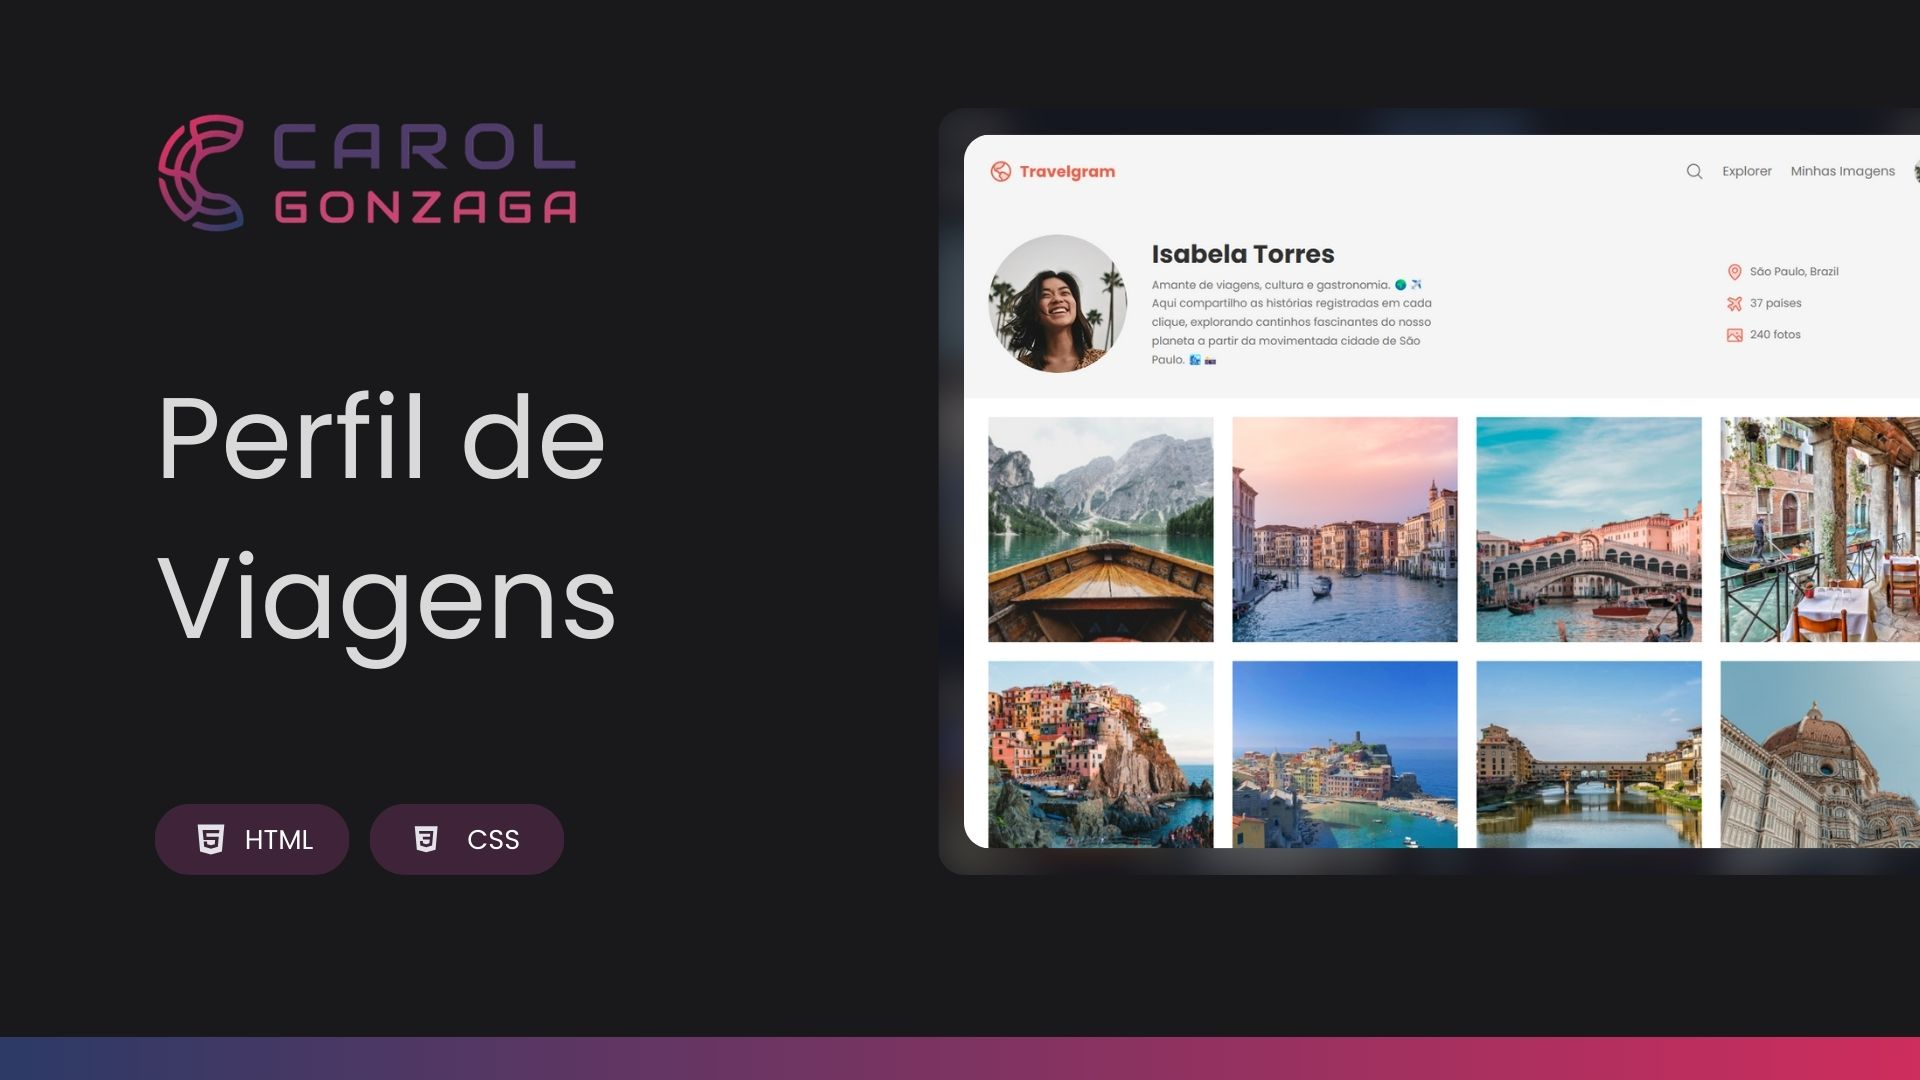
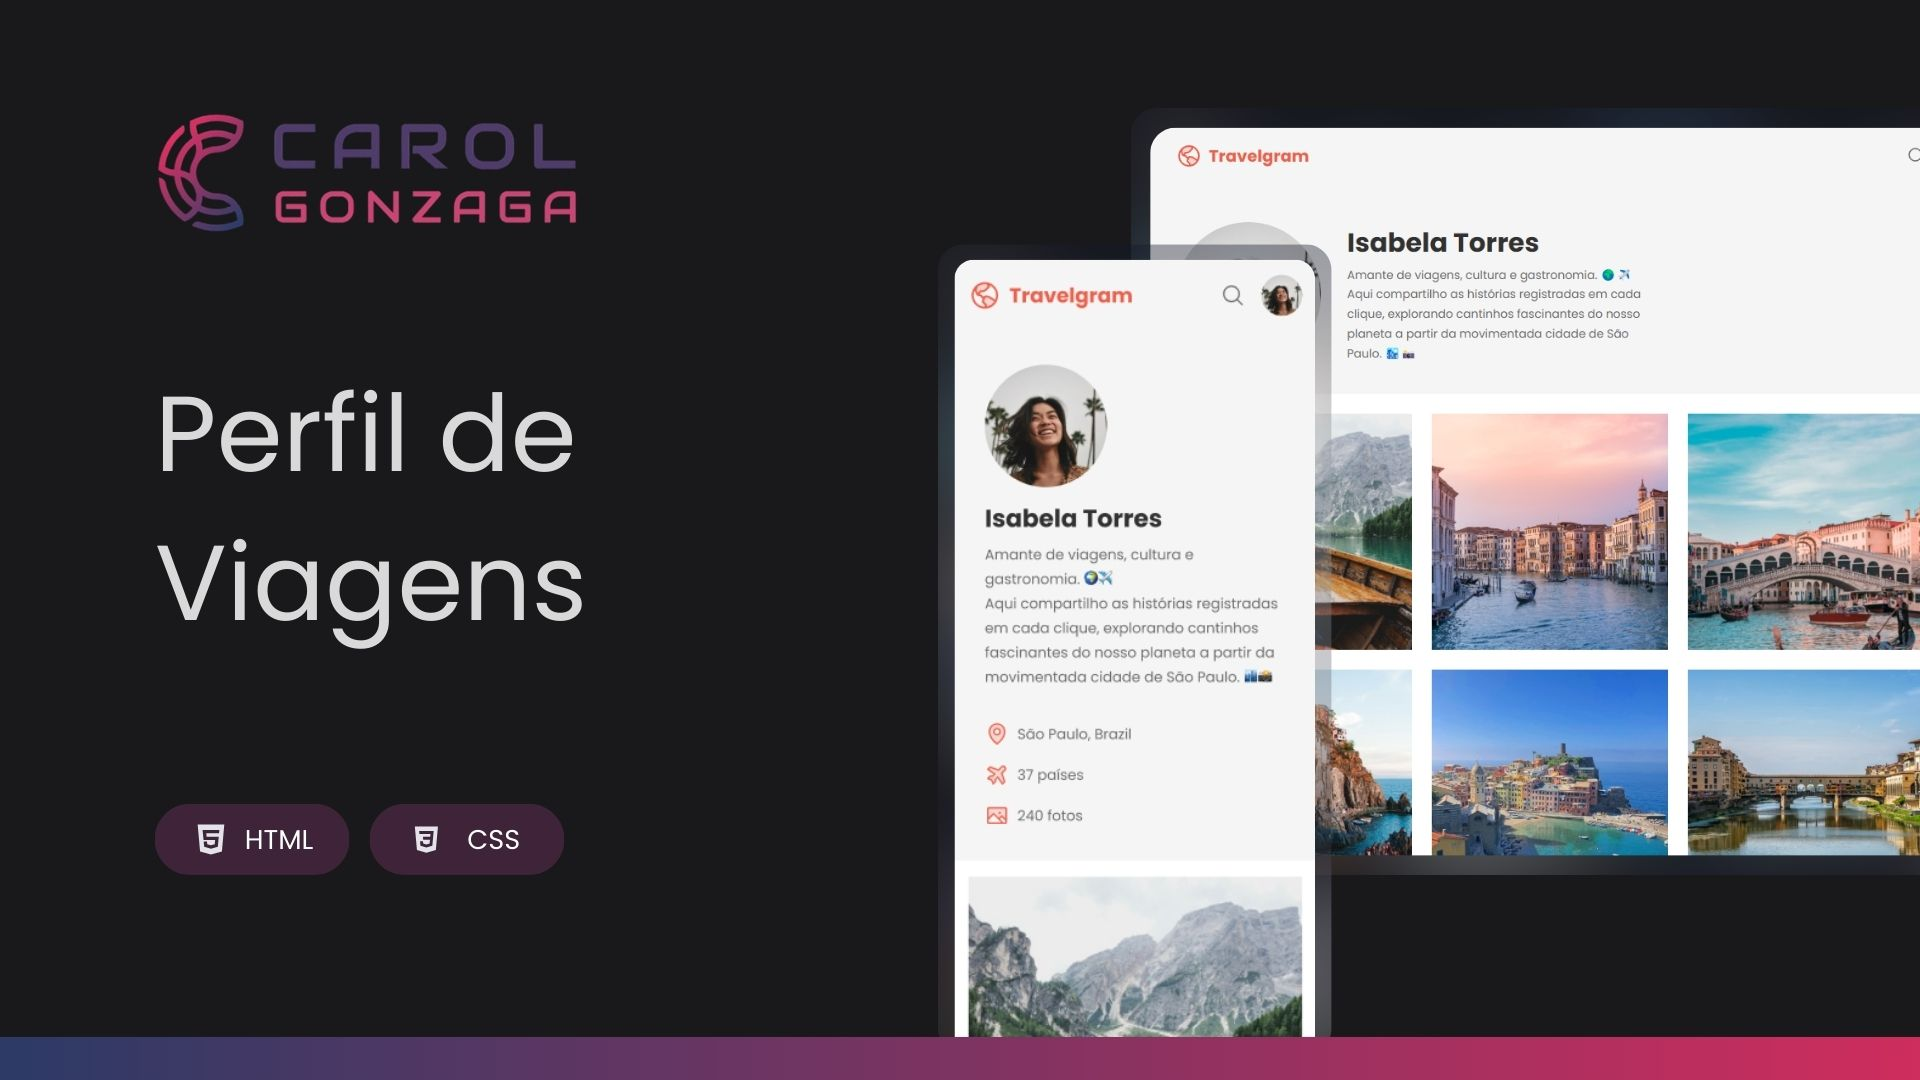
responsividade add

diff --git a/assets/styles/header.css b/assets/styles/header.css
@@ -46,3 +46,43 @@ header .container {
     align-items: center;
     gap: 8px;
 }
+
+@media (width <= 500px) {
+       
+    header {
+        padding-block: 0;
+    }
+
+    header .container {
+        flex-direction: column;
+        justify-content: space-between;
+        padding: 32px;
+        gap: 32px;
+    }
+
+    #profile {
+        flex-direction: column;
+        justify-content: start;
+        text-align: left;
+        gap: 16px;
+    }
+
+    #profile img {
+        width: 120px;
+        height: 120px;
+        margin-right: auto;
+    }
+
+    #profile>div {
+        max-width: 100%;
+        
+        & h1 {
+            margin-bottom: 8px;
+            font-size: 24px;
+        }
+
+        & p {
+            font-size: 13px;
+        }
+    }
+}

diff --git a/assets/styles/footer.css b/assets/styles/footer.css
@@ -5,6 +5,32 @@ footer {
     font: var(--text-p-sm);
 }
 
-footer span:nth-child(1) {
+footer span {
     margin-right: auto;
+}
+
+@media (width <= 500px) {
+    footer {
+        padding: 16px 32px;
+        display: grid;
+        grid-template-columns: 1fr 1fr;
+        grid-template-rows: 2fr 1fr;
+        gap: 0;
+        font-size: 13px;
+
+        & span {
+            grid-column: 1/3;
+            margin-inline: auto;
+        }
+
+        & >:nth-child(2) {
+            grid-column: 1/2;
+            text-align: center;
+        }
+
+        & >:nth-child(3) {
+            grid-column: 2/3;
+            text-align: center;
+        }
+    }
 }

diff --git a/index.html b/index.html
@@ -27,8 +27,8 @@
                         <img src="assets/icons/MagnifyingGlass.svg" alt="">
                     </a>
                 </li>
-                <li><a href="#">Explorer</a></li>
-                <li><a href="#">Minhas Imagens</a></li>
+                <li><a href="#" class="desktop-only">Explorer</a></li>
+                <li><a href="#" class="desktop-only">Minhas Imagens</a></li>
                 <li>
                     <a href="#">
                         <img src="assets/images/Profile pic.png" alt="Imagem de Isabela Torres">

diff --git a/assets/styles/nav.css b/assets/styles/nav.css
@@ -21,3 +21,21 @@ nav ul li:last-child img {
     height: 40px;
 }
 
+@media (width <= 500px) {
+    #primary-menu {
+        justify-content: flex-end;
+        margin: 0;
+        padding: 0;
+        gap: 4px;
+    }
+
+    nav {
+        padding: 16px;
+    }
+
+    nav ul {
+        gap: 16px;
+        padding-block: 0;
+    }
+}
+

diff --git a/assets/styles/main.css b/assets/styles/main.css
@@ -12,3 +12,16 @@ main img {
     height: 286px;
     object-fit: cover;
 }
+
+@media (width <= 500px) {
+    main {
+        gap: 16px;
+        padding: 16px;
+    }
+
+    main img {
+        width: 100%;
+        height: 100%;
+        object-fit: cover;
+    }
+}

diff --git a/assets/styles/global.css b/assets/styles/global.css
@@ -46,3 +46,14 @@ a:hover {
 .bg-surface-color {
     background-color: var(--surface-color);
 }
+
+@media (width <= 500px) {
+    .desktop-only {
+        display: none;
+    }
+
+    .container {
+        padding-inline: 16px;
+        max-width: 100%;
+    }
+}
